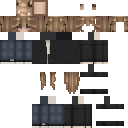
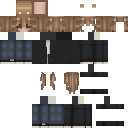
Back up v1, clean up skin (head top, hair edges), add personalised v2 and all-view renders
Claude-Session: https://claude.ai/code/session_01E8KVnok6Fx7faRrVpDBB9K

diff --git a/minecraft-skin/make_skin.py b/minecraft-skin/make_skin.py
@@ -55,22 +55,38 @@ def build(slim=True):
     back = B.rect(253, 150, 755, 665, 16, 16)
     put(24, 8, back); put(56, 8, back, keep=lambda i, j, c: j < 6 or i < 4 or i > 11)
     side = M.quad((130, 95), (355, 150), (355, 470), (135, 415), 16, 16)
-    side = {k: (c if c[0] > c[2] + 4 else (128, 100, 76)) for k, c in side.items()}
+    def rowmed(g, j):
+        v = sorted(c for (i, jj), c in g.items() if jj == j and c[0] >= 85 and c[0] > c[2] + 8)
+        return v[len(v)//2] if v else (121, 95, 72)
+    side = {(i, j): (c if (c[0] >= 85 and c[0] > c[2] + 8) else rowmed(side, j)) for (i, j), c in side.items()}
     put(0, 8, side); put(32, 8, side); put(16, 8, side, flip=True); put(48, 8, side, flip=True)
-    top = M.quad((130, 95), (395, 62), (625, 105), (355, 150), 16, 16)
-    fix = lambda i, j, c: c if c[0] > c[2] + 8 else (128, 100, 76)       # background that leaked into the sample
-    put(8, 0, top, fn=fix)
-    put(40, 0, top, keep=lambda i, j, c: i//2 in (0, 1, 6, 7) and 2 <= j//2 <= 4,
-        fn=lambda i, j, c: tuple(min(255, v+12) for v in fix(i, j, c)))    # ear slabs
+    TONE = {'D': (88, 68, 52), 'M': (121, 95, 72), 'm': (133, 105, 80), 'L': (144, 115, 88),
+            'H': (168, 141, 113), 'W': (200, 180, 155)}
+    ROWS = "DMMmmLLHHLLmLmMM"                                              # back -> front
+    def top_c(i, j):
+        t = ROWS[j]
+        if i in (0, 15): t = {'H': 'L', 'L': 'm', 'm': 'M', 'M': 'D', 'D': 'D'}[t]
+        if j in (12, 13) and i in (3, 4, 11, 12): t = 'W'
+        return TONE[t]
+    top = {(i, j): top_c(i, j) for i in range(16) for j in range(16)}
+    put(8, 0, top)
+    put(40, 0, top, keep=lambda i, j, c: i//2 in (0, 1, 6, 7) and j//2 in (2, 3),
+        fn=lambda i, j, c: TONE['H'] if j == 7 else TONE['L'])            # ear slabs
     skin = F.rect(300, 600, 650, 640, 16, 16)
     put(16, 0, skin, fn=lambda i, j, c: c if 2 <= i <= 13 and 2 <= j <= 13 else (95, 74, 58))
 
     # ---- body ----
     bf = F.rect(240, 650, 710, 1370, 16, 24); bb = B.rect(270, 650, 750, 1370, 16, 24)
     def under(i, j, c):                                                    # hoodie hidden under the hair
-        return (30, 30, 32) if is_hair(c) else c
+        if is_hair(c) or (c[0] - c[2] > 12 and c[0] < 110): return (30, 30, 32)   # hair / hair-edge smudge
+        return c
+    def strand(g):                                                         # solid hair only, no stray pixels
+        h = {k for k, c in g.items() if is_hair(c) and c[0] >= 78}
+        nb = lambda i, j: sum((i+a, j+b) in h for a, b in ((1, 0), (-1, 0), (0, 1), (0, -1)))
+        return {k for k in h if nb(*k) >= 2 or k[1] == 0}
+    hf, hb = strand(bf), strand(bb)
     put(20, 20, bf, fn=under); put(32, 20, bb, fn=under)
-    put(20, 36, bf, keep=lambda i, j, c: is_hair(c)); put(32, 36, bb, keep=lambda i, j, c: is_hair(c))
+    put(20, 36, bf, keep=lambda i, j, c: (i, j) in hf); put(32, 36, bb, keep=lambda i, j, c: (i, j) in hb)
     solid(16, 20, 4, 12, HOOD); solid(28, 20, 4, 12, HOOD); solid(20, 16, 8, 4, (48, 49, 52)); solid(28, 16, 8, 4, (26, 26, 28))
 
     # ---- arms ----
@@ -95,5 +111,37 @@ def build(slim=True):
     leg(16, 48, F.rect(475, 1375, 710, 2030, 8, 24), B.rect(270, 1375, 505, 2030, 8, 24))
     return img
 
+def v2(img):
+    """Personal touches on top of the clean skin: brighter eyes, blonde face-framing strands,
+    lighter tips, pearl earrings, heart necklace, cat-ear colours, slightly opened fringe."""
+    img = img.copy(); px = img.load()
+    def blend(x, y, c, t):
+        r, g, b, a = px[x, y]
+        if a: px[x, y] = tuple(int(v + (w - v) * t) for v, w in zip((r, g, b), c)) + (255,)
+    FX, FY, OX, OY = 16, 16, 80, 16                       # base face / hat-layer face
+    for i in (6, 7, 8, 9):                                 # open the fringe a little
+        for j in (8, 9):
+            px[OX+i, OY+j] = (0, 0, 0, 0); px[FX+i, FY+j] = (196, 160, 140, 255)
+    for (i, top, low) in ((4, (96, 142, 192), (140, 182, 212)), (5, (64, 104, 158), (112, 158, 200)),
+                          (10, (64, 104, 158), (112, 158, 200)), (11, (96, 142, 192), (140, 182, 212))):
+        px[FX+i, FY+11] = (46, 34, 30, 255); px[FX+i, FY+12] = top + (255,); px[FX+i, FY+13] = low + (255,)
+    for i in (2, 13): px[OX+i, OY+14] = (248, 244, 238, 255)                       # pearl earrings
+    for i in (2, 3, 12, 13):                                                       # blonde strands at the face
+        for j in range(16): blend(OX+i, OY+j, (236, 208, 164), .38)
+        for j in range(12): blend(40+i, 72+j, (236, 208, 164), .34 * (1 - j/14))
+    for i in range(16):                                                            # lighter tips
+        for j in range(13, 24): blend(40+i, 72+j, (230, 194, 134), .22)
+        for j in range(17, 24): blend(64+i, 72+j, (230, 194, 134), .22)
+    for (i, j) in ((6, 1), (9, 1), (7, 2), (8, 2)): px[40+i, 40+j] = (212, 176, 110, 255)   # necklace
+    for i in (7, 8): px[40+i, 40+3] = (236, 186, 128, 255)                                   # heart pendant
+    for ex in (0, 12):                                                             # cat ears: grey fur, light inside
+        for i in range(4):
+            for j in range(4, 8):
+                inner = i in (1, 2) and j in (5, 6)
+                px[80+ex+i, j] = (244, 232, 228, 255) if inner else (146, 136, 128, 255)
+    return img
+
 if __name__ == "__main__":
-    build(True).save("skin_slim_128.png"); build(False).save("skin_classic_128.png")
+    for slim, tag in ((True, "slim"), (False, "classic")):
+        clean = build(slim)
+        clean.save(f"skin_{tag}_128.png"); v2(clean).save(f"skin_{tag}_128_v2.png")

diff --git a/minecraft-skin/render3d.py b/minecraft-skin/render3d.py
@@ -1,21 +1,21 @@
 # Tiny software renderer: draws a skin as a 3D figure (front, 3/4, back) for checking.
 import math, sys
 from PIL import Image, ImageDraw
-def render(path, out, slim=True, S=14):
+def render(path, out, slim=True, S=14, views=((0,8),(35,8),(180,8))):
     tex = Image.open(path).convert("RGBA"); T = tex.load(); R = tex.width//64
     aw = 3 if slim else 4; ax = 4 + aw/2
     parts = [((0,28,0),(8,8,8),(0,0),(32,0),.5), ((0,18,0),(8,12,4),(16,16),(16,32),.25),
              ((-ax,18,0),(aw,12,4),(40,16),(40,32),.25), ((ax,18,0),(aw,12,4),(32,48),(48,48),.25),
              ((-2,6,0),(4,12,4),(0,16),(0,32),.25), ((2,6,0),(4,12,4),(16,48),(0,48),.25)]
-    views = [0, 35, 180]; W, H = 26*S, 40*S
+    W, H = 26*S, 40*S
     img = Image.new("RGB", (W*len(views), H), (96,104,122))
-    for vi, yaw in enumerate(views):
-        a = math.radians(yaw); p = math.radians(8); polys = []
+    for vi, (yaw, pitch) in enumerate(views):
+        a = math.radians(yaw); p = math.radians(pitch); polys = []
         def proj(P):
             x, y, z = P
             x, z = x*math.cos(a)+z*math.sin(a), -x*math.sin(a)+z*math.cos(a)
             y, z = y*math.cos(p)-z*math.sin(p), y*math.sin(p)+z*math.cos(p)
-            return (vi*W + W/2 + x*S, H - 3*S - y*S, z)
+            return (vi*W + W/2 + x*S, H/2 + 17*S*math.cos(p) - y*S, z)
         for (c, (w,h,d), uv, ouv, inf) in parts:
             for (U, V), g in ((uv, 0), (ouv, inf)):
                 k = [(s+2*g)/s for s in (w,h,d)]
@@ -25,7 +25,8 @@ def render(path, out, slim=True, S=14):
                  ((U+d,V+d),(w,h),(-hw,hh,hd),(k[0],0,0),(0,-k[1],0),(0,0,1)),
                  ((U+d+w,V+d),(d,h),(hw,hh,hd),(0,0,-k[2]),(0,-k[1],0),(1,0,0)),
                  ((U+2*d+w,V+d),(w,h),(hw,hh,-hd),(-k[0],0,0),(0,-k[1],0),(0,0,-1)),
-                 ((U+d,V),(w,d),(-hw,hh,-hd),(k[0],0,0),(0,0,k[2]),(0,1,0))]
+                 ((U+d,V),(w,d),(-hw,hh,-hd),(k[0],0,0),(0,0,k[2]),(0,1,0)),
+                 ((U+d+w,V),(w,d),(-hw,-hh,-hd),(k[0],0,0),(0,0,k[2]),(0,-1,0))]
                 for (tu,tv),(tw,th),O,du,dv,n in faces:
                     nz = proj(n)[2] - proj((0,0,0))[2]
                     if nz <= 0.01: continue
@@ -44,4 +45,6 @@ def render(path, out, slim=True, S=14):
         for _, q, col in sorted(polys, key=lambda t: t[0]): dr.polygon(q, fill=col)
     img.save(out)
 if __name__ == "__main__":
-    render(sys.argv[1], sys.argv[2], slim="classic" not in sys.argv[1])
+    allv = "--all" in sys.argv
+    v = ((0,8),(35,8),(90,8),(180,8),(270,8),(325,8),(20,60),(200,60)) if allv else ((0,8),(35,8),(180,8))
+    render(sys.argv[1], sys.argv[2], slim="classic" not in sys.argv[1], views=v, S=10 if allv else 14)
